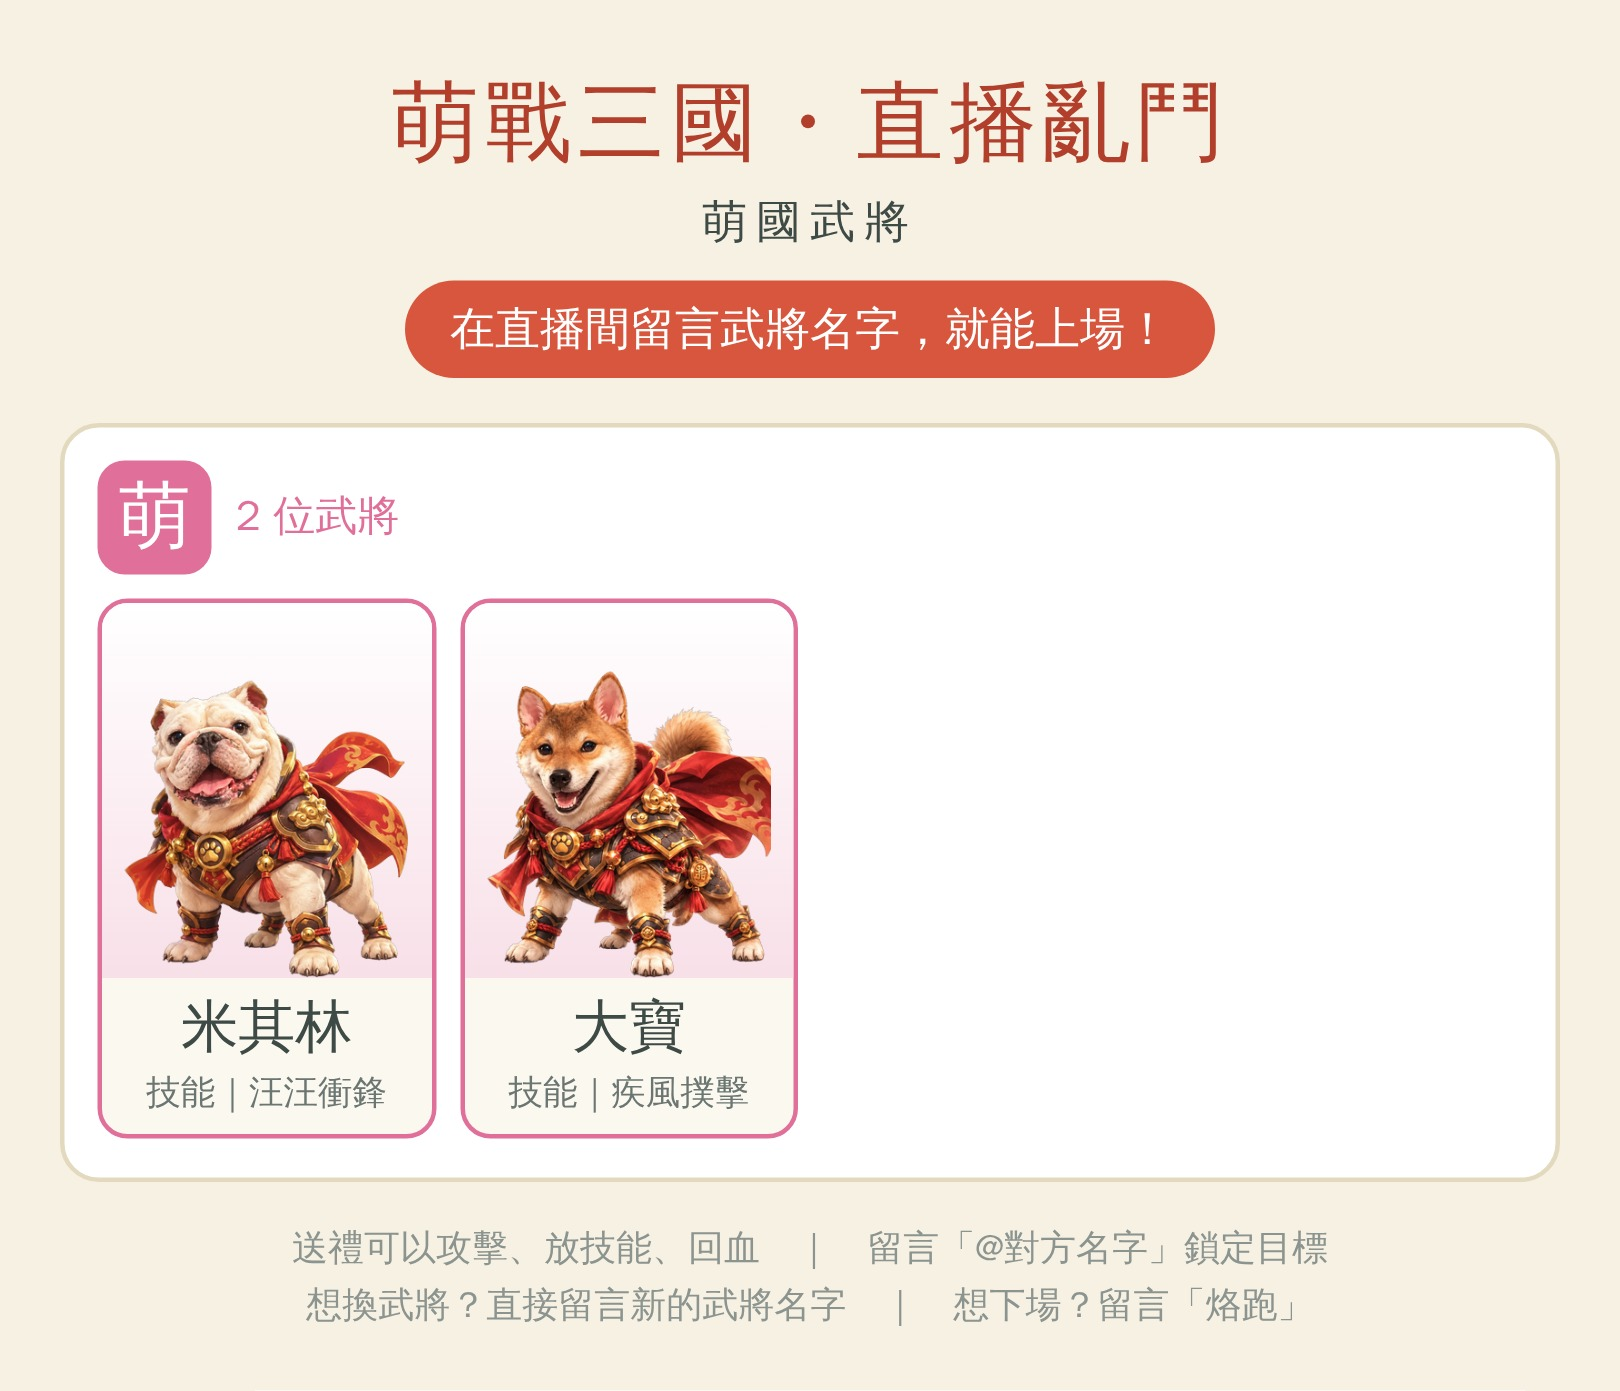
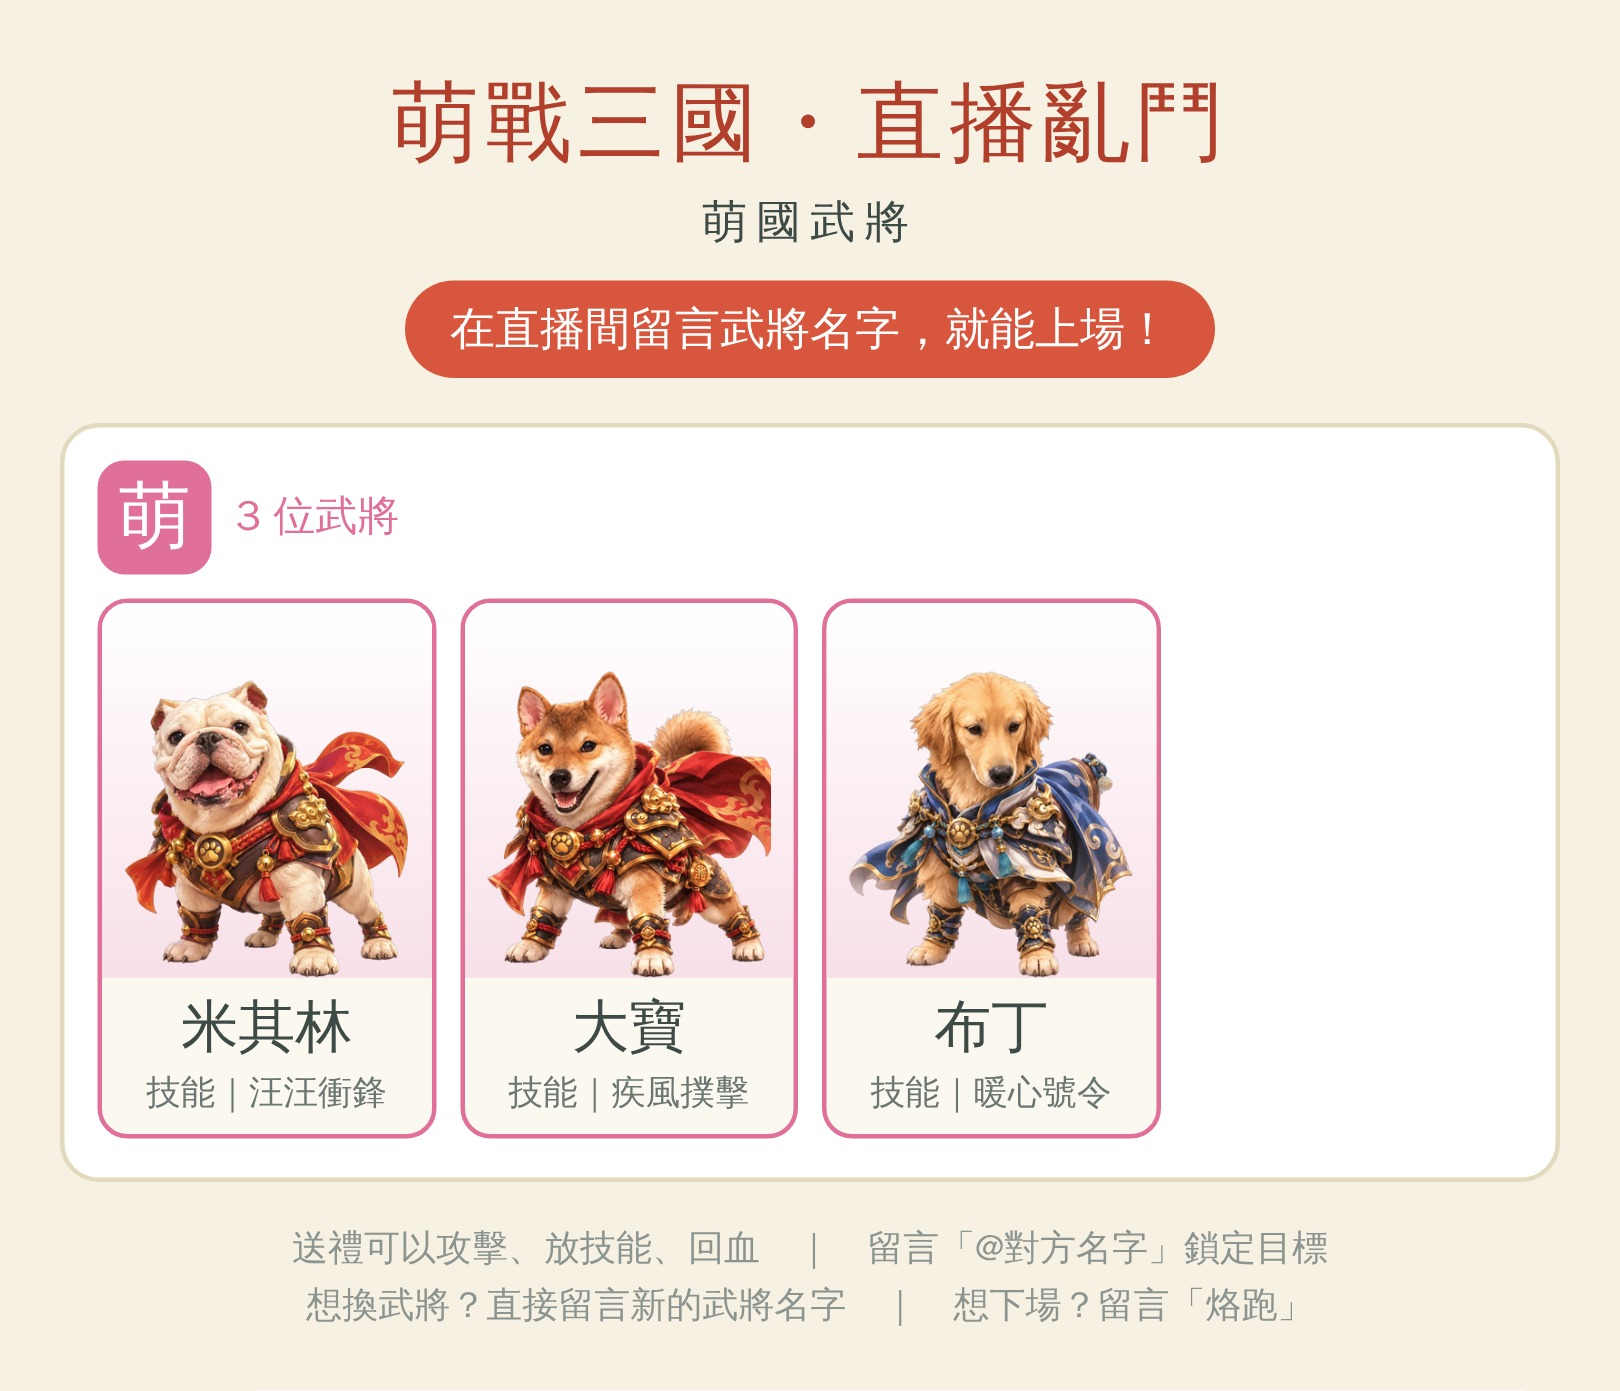
新增萌國武將「布丁」（黃金獵犬・統帥），更新名冊圖與說明
Claude-Session: https://claude.ai/code/session_01J1mi4tQsbQufTfnNbsrTar

Changed region(s): [[0.4938, 0.4637, 0.7407, 0.8347], [0.7099, 0.7728, 0.7407, 0.8037], [0.4938, 0.4328, 0.5247, 0.4637]]

diff --git a/data/extra-heroes.js b/data/extra-heroes.js
@@ -11,4 +11,6 @@ window.HEROES_DATA = window.HEROES_DATA.concat([
   { heroId: 'michelin', displayName: '米其林', faction: 'Meng', troop: 'Vanguard', baseHp: 928, baseAtk: 52, baseArmor: 47, skillName: '汪汪衝鋒', extra: true },
   // 大寶：萌國的柴犬遊俠。能力值取遊俠平均（血少、攻高、防低），技能演出是射出光彈。
   { heroId: 'dabao', displayName: '大寶', faction: 'Meng', troop: 'Ranger', baseHp: 540, baseAtk: 72, baseArmor: 25, skillName: '疾風撲擊', extra: true },
+  // 布丁：萌國的黃金獵犬統帥。能力值取統帥平均（血、攻、防都在中間），技能演出是光環＋光柱。
+  { heroId: 'pudding', displayName: '布丁', faction: 'Meng', troop: 'Commander', baseHp: 746, baseAtk: 55, baseArmor: 34, skillName: '暖心號令', extra: true },
 ]);

diff --git a/CLAUDE.md b/CLAUDE.md
@@ -82,7 +82,7 @@
 
 ## 素材與資料：來自 Curry_Games（只讀）
 - `sky03104/Curry_Games` 是另一個遊戲「萌戰三國」。**只能讀，不可修改、不可 commit、不可 push。**
-- 武將資料以 `Curry_Games/UnityProject/Assets/_Project/Data/heroes.json` 為準（38 隻）。**例外：直播亂鬥自己新增的角色**放在 `data/extra-heroes.js`（手寫，不會被同步工具蓋掉），目前有「米其林」「大寶」（都是萌國）。
+- 武將資料以 `Curry_Games/UnityProject/Assets/_Project/Data/heroes.json` 為準（38 隻）。**例外：直播亂鬥自己新增的角色**放在 `data/extra-heroes.js`（手寫，不會被同步工具蓋掉），目前有「米其林」「大寶」「布丁」（都是萌國）。
   中文名、英文 ID、陣營的對應**一律照這個檔，不要自己猜**。
   - 注意：檔案裡陣營的寫法是 `Wei`／`Shu`／`Wu`／`Qun`（群不是寫「群」）。
 - 武將圖用**全身圖**：`Curry_Games/UnityProject/Assets/_Project/Resources/HeroPortraitsFullBody2D/`，
@@ -95,6 +95,7 @@
     名字、能力值、技能名都是 Claude 先定的，咖哩沒指定，要改就改 `data/extra-heroes.js`。
   - 大寶（2026-11-13 咖哩第二隻）：柴犬披戰甲，`heroId: dabao`，遊俠（技能演出＝射出光彈），血 540／攻 72／防 25（遊俠平均），技能「疾風撲擊」。名字以外的設定一樣是 Claude 先定的。
   - 陣營「萌國」：`Meng`，畫面上顯示單字「萌」（跟魏蜀吳群一致），名冊圖叫「萌國武將」，顏色 `#E0709A`（粉紅，跟群的深洋紅分得開）。
+  - 布丁（2026-11-13 咖哩第三隻）：黃金獵犬披戰甲，`heroId: pudding`，統帥（技能演出＝光環＋光柱），血 746／攻 55／防 34（統帥平均），技能「暖心號令」。名字以外的設定（兵種、數值、技能名）是 Claude 先定的。去背時原圖左上的名牌被當成雜點去掉；尾巴顏色接近白底，被 AI 去背削掉一部分。
   - 圖：咖哩提供的原圖是白底，用 `tools/cutout_hero.py` 去背（AI 去背 rembg，連腳下陰影一起去掉）並縮成 312x396 放在 `assets/heroes/michelin.png`。
     之後要再加角色：照 `data/extra-heroes.js` 檔頭的四個步驟做。
   - 觀眾第一次上場是「留言裡含武將名就算」，所以聊天提到「米其林餐廳」之類的詞也會讓還沒上場的人帶著米其林上場。
@@ -185,8 +186,8 @@
 | `index.html` | 入口。直接開＝帶假事件面板的試玩模式；網址加 `?obs=1`＝只有透明遊戲畫面（給 OBS） |
 | `js/config.js` | **設定檔**：禮物、傷害、血量、復活秒數、顏色 |
 | `data/heroes.js` | 38 隻武將資料（自動產生） |
-| `assets/heroes/` | 40 張武將全身圖（已縮小）：38 張來自萌戰三國，加上自己新增的米其林、大寶 |
-| `data/extra-heroes.js` | 自己新增的角色資料（手寫）：米其林、大寶 |
+| `assets/heroes/` | 41 張武將全身圖（已縮小）：38 張來自萌戰三國，加上自己新增的米其林、大寶、布丁 |
+| `data/extra-heroes.js` | 自己新增的角色資料（手寫）：米其林、大寶、布丁 |
 | `tools/cutout_hero.py` | 把角色圖去背並轉成遊戲用的全身圖 |
 | `js/events.js` | 事件來源層（假面板／之後的 TikTok） |
 | `js/gift-settings.js` | TikTok 禮物 → 動作的設定（存在瀏覽器與直播用網址裡） |
